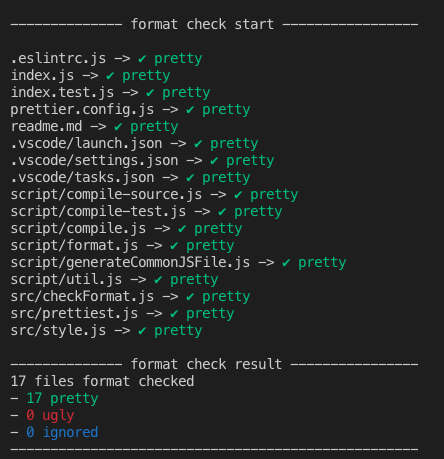
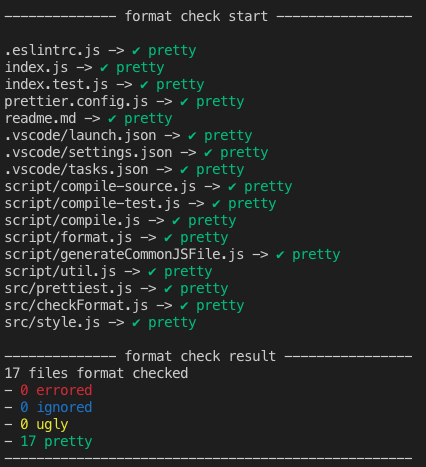
handle syntax error gracefully

Changed region(s): [[0.0, 0.0915, 0.9765, 1.0], [0.0, 0.0, 0.946, 0.061]]

diff --git a/src/prettiest.js b/src/prettiest.js
@@ -1,11 +1,19 @@
-import { checkFormat } from "./checkFormat.js"
 import {
-  prettyStyle,
-  uglyStyle,
+  checkFormat,
+  STATUS_ERRORED,
+  STATUS_IGNORED,
+  STATUS_UGLY,
+  STATUS_PRETTY,
+} from "./checkFormat.js"
+import {
+  erroredStyle,
   ignoredStyle,
-  prettyStyleWithIcon,
-  uglyStyleWithIcon,
+  uglyStyle,
+  prettyStyle,
+  erroredStyleWithIcon,
   ignoredStyleWithIcon,
+  uglyStyleWithIcon,
+  prettyStyleWithIcon,
 } from "./style.js"
 
 export const prettiest = async ({ folder, filenameRelativeArray }) => {
@@ -16,40 +24,49 @@ export const prettiest = async ({ folder, filenameRelativeArray }) => {
   const report = await checkFormat({
     folder,
     filenameRelativeArray,
-    afterFormat: ({ filenameRelative, pretty, ignored }) => {
-      if (ignored) {
+    afterFormat: ({ filenameRelative, status, statusDetail }) => {
+      if (status === STATUS_ERRORED) {
+        console.log(`${filenameRelative} -> ${erroredStyleWithIcon("errored")}`)
+        console.log(statusDetail)
+      }
+
+      if (status === STATUS_IGNORED) {
         console.log(`${filenameRelative} -> ${ignoredStyleWithIcon("ignored")}`)
         return
       }
-      if (pretty) {
-        console.log(`${filenameRelative} -> ${prettyStyleWithIcon("pretty")}`)
+
+      if (status === STATUS_UGLY) {
+        console.log(`${filenameRelative} -> ${uglyStyleWithIcon("ugly")}`)
         return
       }
-      console.log(`${filenameRelative} -> ${uglyStyleWithIcon("ugly")}`)
+
+      console.log(`${filenameRelative} -> ${prettyStyleWithIcon("pretty")}`)
     },
   })
 
-  const prettyArray = filenameRelativeArray.filter(
-    (filenameRelativeArray) =>
-      !report[filenameRelativeArray].ignored && report[filenameRelativeArray].pretty,
-  )
-  const uglyArray = filenameRelativeArray.filter(
-    (filenameRelativeArray) =>
-      !report[filenameRelativeArray].ignored && !report[filenameRelativeArray].pretty,
+  const erroredArray = filenameRelativeArray.filter(
+    (filenameRelativeArray) => report[filenameRelativeArray].status === STATUS_ERRORED,
   )
   const ignoredArray = filenameRelativeArray.filter(
-    (filenameRelativeArray) => report[filenameRelativeArray].ignored,
+    (filenameRelativeArray) => report[filenameRelativeArray].status === STATUS_IGNORED,
+  )
+  const uglyArray = filenameRelativeArray.filter(
+    (filenameRelativeArray) => report[filenameRelativeArray].status === STATUS_UGLY,
+  )
+  const prettyArray = filenameRelativeArray.filter(
+    (filenameRelativeArray) => report[filenameRelativeArray].status === STATUS_PRETTY,
   )
 
   console.log(`
 -------------- format check result ----------------
 ${filenameRelativeArray.length} files format checked
-- ${prettyStyle(`${prettyArray.length} pretty`)}
-- ${uglyStyle(`${uglyArray.length} ugly`)}
+- ${erroredStyle(`${erroredArray.length} errored`)}
 - ${ignoredStyle(`${ignoredArray.length} ignored`)}
+- ${uglyStyle(`${uglyArray.length} ugly`)}
+- ${prettyStyle(`${prettyArray.length} pretty`)}
 ---------------------------------------------------`)
 
-  if (uglyArray.length) {
+  if (uglyArray.length || erroredArray.length) {
     process.exit(1)
   } else {
     process.exit(0)

diff --git a/src/checkFormat.js b/src/checkFormat.js
@@ -2,22 +2,41 @@ import fs from "fs"
 
 const { resolveConfig, getFileInfo, check } = require("prettier")
 
+export const STATUS_IGNORED = "ignored"
+export const STATUS_PRETTY = "pretty"
+export const STATUS_UGLY = "ugly"
+export const STATUS_ERRORED = "errored"
+
 export const checkFormat = async ({ folder, filenameRelativeArray, afterFormat = () => {} }) => {
   const report = {}
 
   await Promise.all(
     filenameRelativeArray.map(async (filenameRelative) => {
       const filename = `${folder}/${filenameRelative}`
-      const [source, options, info] = await Promise.all([
-        getFileContentAsString(filename),
-        resolveConfig(filename),
-        getFileInfo(filename),
-      ])
+      let status
+      let statusDetail
 
-      const { ignored } = info
-      const pretty = ignored ? undefined : check(source, { ...options, filepath: filename })
-      afterFormat({ filenameRelative, pretty, ignored })
-      report[filenameRelative] = { pretty, ignored }
+      try {
+        const [source, options, info] = await Promise.all([
+          getFileContentAsString(filename),
+          resolveConfig(filename),
+          getFileInfo(filename),
+        ])
+
+        const { ignored } = info
+        if (ignored) {
+          status = STATUS_IGNORED
+        } else {
+          const pretty = check(source, { ...options, filepath: filename })
+          status = pretty ? STATUS_PRETTY : STATUS_UGLY
+        }
+      } catch (e) {
+        status = STATUS_ERRORED
+        statusDetail = e
+      }
+
+      afterFormat({ filenameRelative, status, statusDetail })
+      report[filenameRelative] = { status, statusDetail }
     }),
   )
 

diff --git a/src/style.js b/src/style.js
@@ -2,15 +2,20 @@ const close = "\x1b[0m"
 const green = "\x1b[32m"
 const red = "\x1b[31m"
 const blue = "\x1b[34m"
+const yellow = "\x1b[33m"
 
-export const prettyStyle = (string) => `${green}${string}${close}`
-export const prettyStyleWithIcon = (string) => prettyStyle(`${prettyIcon} ${string}`)
-const prettyIcon = "\u2714" // checkmark ✔
-
-export const uglyStyle = (string) => `${red}${string}${close}`
-export const uglyStyleWithIcon = (string) => uglyStyle(`${uglyIcon} ${string}`)
-const uglyIcon = "\u2613" // cross ☓
+export const erroredStyle = (string) => `${red}${string}${close}`
+export const erroredStyleWithIcon = (string) => erroredStyle(`${erroredIcon} ${string}`)
+const erroredIcon = "\u003F" // question mark ?
 
 export const ignoredStyle = (string) => `${blue}${string}${close}`
 export const ignoredStyleWithIcon = (string) => ignoredStyle(`${ignoredIcon} ${string}`)
 const ignoredIcon = "\u003F" // question mark ?
+
+export const uglyStyle = (string) => `${yellow}${string}${close}`
+export const uglyStyleWithIcon = (string) => uglyStyle(`${uglyIcon} ${string}`)
+const uglyIcon = "\u2613" // cross ☓
+
+export const prettyStyle = (string) => `${green}${string}${close}`
+export const prettyStyleWithIcon = (string) => prettyStyle(`${prettyIcon} ${string}`)
+const prettyIcon = "\u2714" // checkmark ✔
